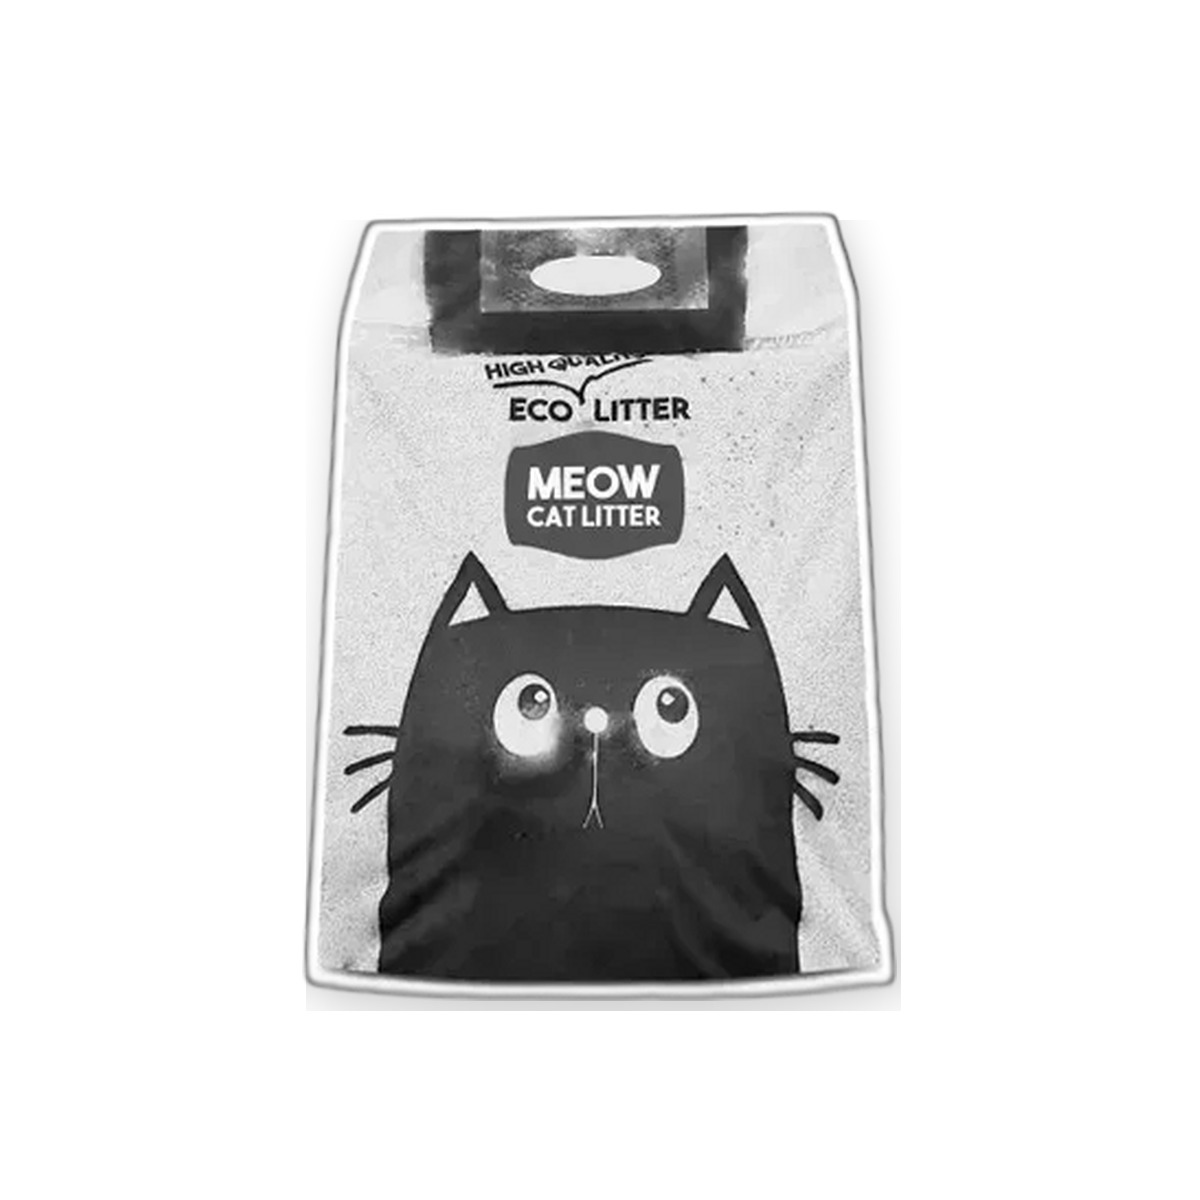
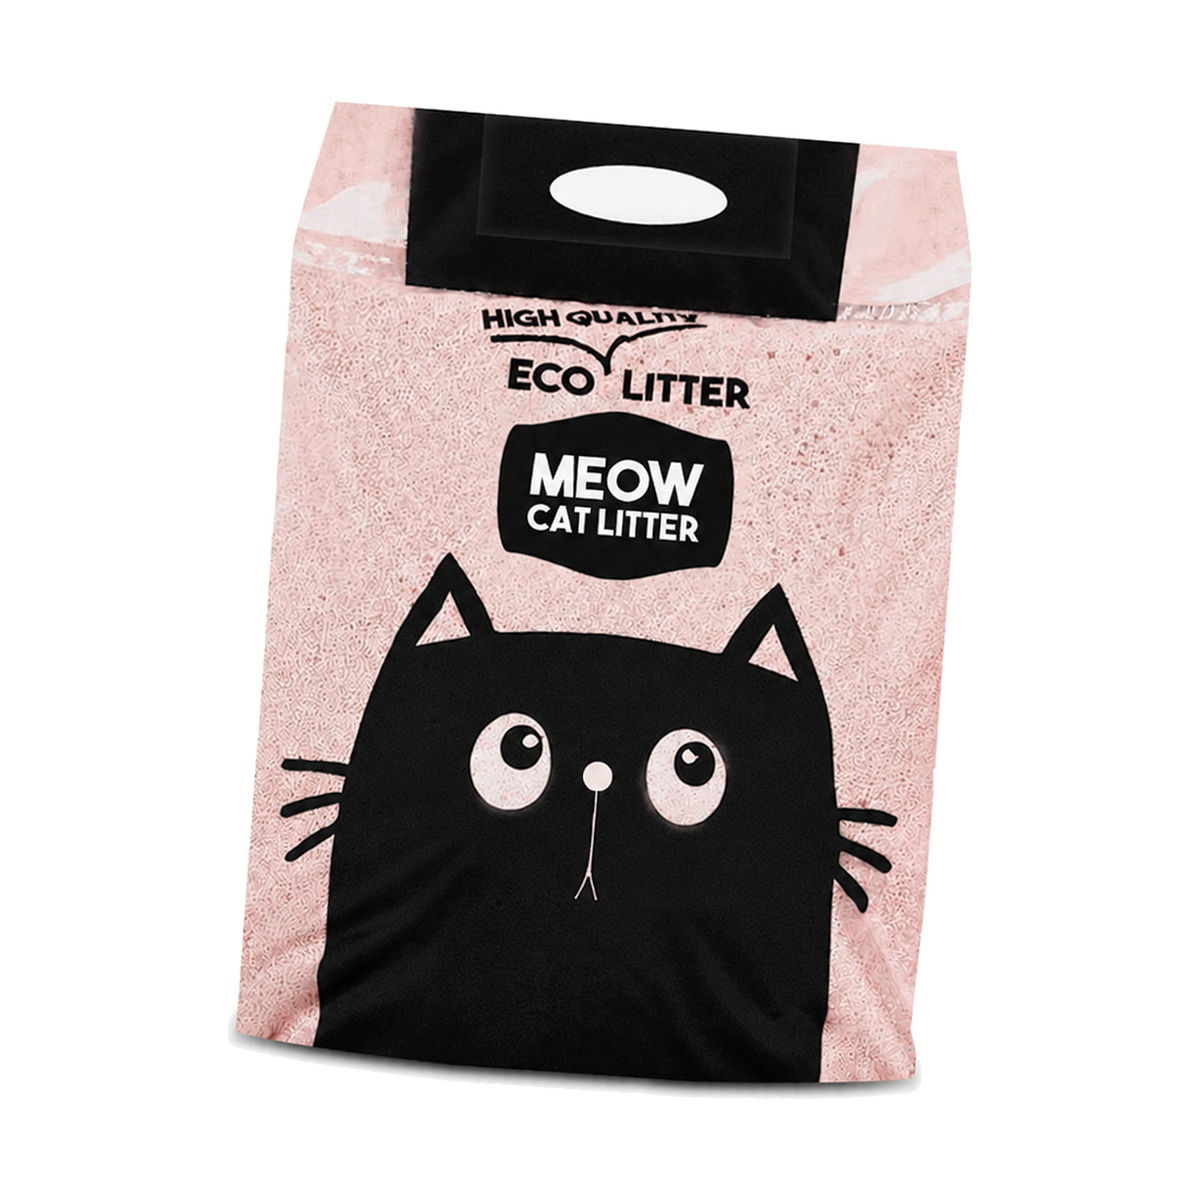
chore(shop): swap wave1 studio packshots for 6 SKUs (official sources)

diff --git a/packages/api/src/data/shop-batch-multi-products.selftest.ts b/packages/api/src/data/shop-batch-multi-products.selftest.ts
@@ -1,5 +1,5 @@
 /**
- * Shop Batch-multi wave 1/5 — 10 SKUs, zero margin, 3-angle batch-multi-w1-v1 galleries.
+ * Shop Batch-multi wave 1/5 — 10 SKUs, zero margin, 3-angle batch-multi-w1-v2 galleries.
  * Run: npx tsx src/data/shop-batch-multi-products.selftest.ts
  */
 import assert from 'node:assert/strict';
@@ -74,7 +74,7 @@ async function main() {
   assert.equal(seed.SHOP_BATCH_MULTI_PRODUCTS[7]?.slug, 'dog-treats-dr-clauders-pork-filet-strips-80-g');
   assert.equal(seed.SHOP_BATCH_MULTI_PRODUCTS[8]?.id, 'p258');
   assert.equal(seed.SHOP_BATCH_MULTI_PRODUCTS[8]?.slug, 'dog-treats-rabbit-fillet-dr-clauders-80-g');
-  assert.equal(seed.SHOP_BATCH_MULTI_CACHE_BUST, 'batch-multi-w1-v1');
+  assert.equal(seed.SHOP_BATCH_MULTI_CACHE_BUST, 'batch-multi-w1-v2');
   assert.ok(
     !seed.SHOP_BATCH_MULTI_PRODUCTS.some((p) => (HELD_SHOP_SLUGS as readonly string[]).includes(p.slug)),
     'no held slugs remain in batch-multi products'
@@ -144,7 +144,7 @@ async function main() {
   for (const row of rows) {
     assert.equal(row.price_toman, EXPECTED_PRICE[row.slug], `${row.slug} exact MANIFEST price`);
     assert.equal(row.cost_toman, row.price_toman, `${row.slug} margin 0`);
-    assert.match(row.image, new RegExp(`/pepito/uploads/${row.slug}\\.jpg\\?v=batch-multi-w1-v1$`));
+    assert.match(row.image, new RegExp(`/pepito/uploads/${row.slug}\\.jpg\\?v=batch-multi-w1-v2$`));
     assert.equal(row.badge, 'new');
     assert.equal(Number(row.featured), 1);
     assert.equal(Number(row.in_stock), 1);
@@ -158,8 +158,8 @@ async function main() {
       .filter(Boolean);
     assert.equal(gallery.length, 3, `${row.slug} stores 3 gallery URLs`);
     assert.equal(gallery[0], row.image, `${row.slug} first gallery src is cover`);
-    assert.ok(gallery[1]?.includes(`${row.slug}-2.jpg?v=batch-multi-w1-v1`), `${row.slug} angle 2`);
-    assert.ok(gallery[2]?.includes(`${row.slug}-3.jpg?v=batch-multi-w1-v1`), `${row.slug} angle 3`);
+    assert.ok(gallery[1]?.includes(`${row.slug}-2.jpg?v=batch-multi-w1-v2`), `${row.slug} angle 2`);
+    assert.ok(gallery[2]?.includes(`${row.slug}-3.jpg?v=batch-multi-w1-v2`), `${row.slug} angle 3`);
     assert.ok('__titleEn' in params, `${row.slug} stores titleEn key`);
     if (NO_INVENTED_WEIGHT.has(row.slug)) {
       assert.equal(params['وزن'], undefined, `${row.slug} must not invent وزن`);
@@ -172,8 +172,8 @@ async function main() {
     .all() as Array<{ slug: string }>;
   assert.equal(cats.length, 2, 'wave-1 categories are seeded');
 
-  const bust = readFileSync(join(repoRoot, 'tmp/cache-bust-shop-batch-multi-w1-v1'), 'utf8');
-  assert.match(bust, /batch-multi-w1-v1/, 'cache-bust marker present');
+  const bust = readFileSync(join(repoRoot, 'tmp/cache-bust-shop-batch-multi-w1-v2'), 'utf8');
+  assert.match(bust, /batch-multi-w1-v2/, 'cache-bust marker present');
 
   const imageNames = SHOP_BATCH_MULTI_SLUGS.flatMap((slug) => [
     `${slug}.jpg`,

diff --git a/packages/web/src/data/shopGallery.selftest.ts b/packages/web/src/data/shopGallery.selftest.ts
@@ -97,9 +97,9 @@ for (const [id, slug, price] of batchMulti) {
   assert.equal(item.priceToman, price, `${id} MANIFEST price`);
   const shots = productGallery(item);
   assert.equal(shots.length, 3, `${id} gallery has 3 unique angles`);
-  assert.ok(shots[0].includes(`${slug}.jpg?v=batch-multi-w1-v1`), `${id} front is batch-multi-w1-v1`);
-  assert.ok(shots[1].includes(`${slug}-2.jpg?v=batch-multi-w1-v1`), `${id} angle 2 is batch-multi-w1-v1`);
-  assert.ok(shots[2].includes(`${slug}-3.jpg?v=batch-multi-w1-v1`), `${id} angle 3 is batch-multi-w1-v1`);
+  assert.ok(shots[0].includes(`${slug}.jpg?v=batch-multi-w1-v2`), `${id} front is batch-multi-w1-v2`);
+  assert.ok(shots[1].includes(`${slug}-2.jpg?v=batch-multi-w1-v2`), `${id} angle 2 is batch-multi-w1-v2`);
+  assert.ok(shots[2].includes(`${slug}-3.jpg?v=batch-multi-w1-v2`), `${id} angle 3 is batch-multi-w1-v2`);
   assert.doesNotMatch(shots.join(' '), /purple|5c4d91|بنفش/i, `${id} gallery has no purple asset`);
 }
 assert.ok(getProduct('cat-litter-mr-cat-cat-litter-10-l-carbon'), 'MR.CAT carbon litter is in catalog');

diff --git a/packages/api/src/data/shop-live-catalog.selftest.ts b/packages/api/src/data/shop-live-catalog.selftest.ts
@@ -232,7 +232,7 @@ async function main() {
   assert.match(String(p221.image), /royal-canin-mini-adult-2kg\.jpg\?v=gallery-v1$/);
   assert.match(String(p235.image), /cat-food-josera-kitten-2kg\.jpg\?v=batch2-v1$/);
   assert.match(String(p249.image), /dog-food-royal-canin-hypoallergenic-2kg\.jpg\?v=batch3-v2$/);
-  assert.match(String(p259.image), /dog-treats-wanpy-toothbrush-chews-100g\.jpg\?v=batch-multi-w1-v1$/);
+  assert.match(String(p259.image), /dog-treats-wanpy-toothbrush-chews-100g\.jpg\?v=batch-multi-w1-v2$/);
   assert.match(
     String(p269.image),
     /dog-toys-luna-squeaky-smile-watermelon-plush-dog-toy\.jpg\?v=batch-multi-w2-v1$/

diff --git a/packages/api/src/data/shop-batch-multi-wave2-products.ts b/packages/api/src/data/shop-batch-multi-wave2-products.ts
@@ -2,7 +2,7 @@
  * PetDate shop Batch-multi wave 2/5 — 10 live SKUs (p260–p269).
  * Additive, idempotent upsert by slug. Margin 0 (cost_toman = price_toman).
  * Seller copy is پت دیت شاپ only. Do not invent missing weights.
- * Gallery cache-bust is batch-multi-w2-v1 (wave 1 stays on batch-multi-w1-v1).
+ * Gallery cache-bust is batch-multi-w2-v1 (wave 1 stays on batch-multi-w1-v2).
  */
 import { getDb } from '../db';
 import { withShopImagesParam } from './shop-product-images';

diff --git a/packages/api/src/data/shop-batch-multi-products.ts b/packages/api/src/data/shop-batch-multi-products.ts
@@ -8,7 +8,7 @@ import { withShopImagesParam } from './shop-product-images';
 import { HELD_SHOP_SLUGS, SHOP_BATCH_MULTI_SLUGS } from './shop-zero-margin-slugs';
 
 const P = '/pepito/uploads';
-export const SHOP_BATCH_MULTI_CACHE_BUST = "batch-multi-w1-v1";
+export const SHOP_BATCH_MULTI_CACHE_BUST = "batch-multi-w1-v2";
 
 function multiGallery(slug: string): { image: string; images: string[] } {
   const images = [

diff --git a/packages/web/src/data/shopBatchMultiProducts.ts b/packages/web/src/data/shopBatchMultiProducts.ts
@@ -1,7 +1,7 @@
 import type { ShopProduct } from './shopCatalog';
 
 const P = '/pepito/uploads';
-const V = "batch-multi-w1-v1";
+const V = "batch-multi-w1-v2";
 
 function gallery(slug: string): { image: string; images: string[] } {
   const images = [
